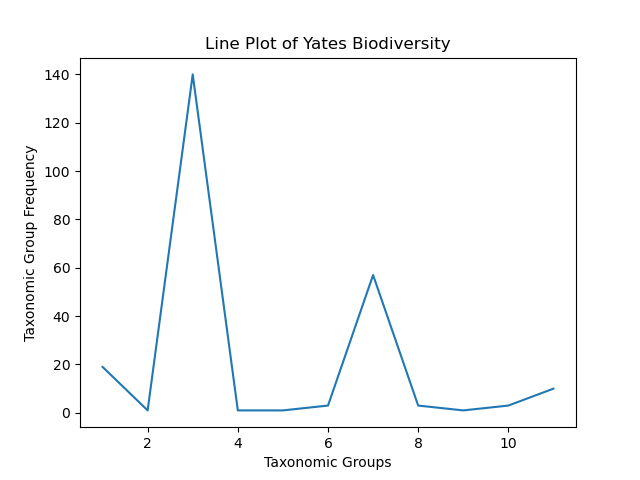
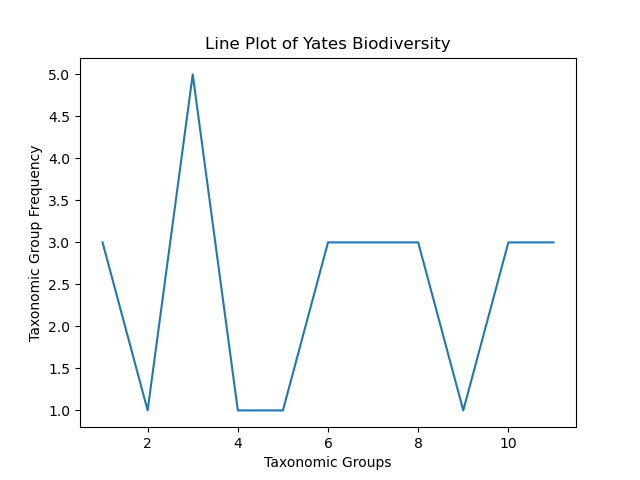
line plot fixed!

diff --git a/Root/organism.py b/Root/organism.py
@@ -57,7 +57,7 @@ class organism:
             logger.info('Visualize data distributions in a line plot...')
             try:
                 try:
-                    freq_counts = dataFrame.index.value_counts() #gets the number of occurences of each Taxonomic Group 
+                    freq_counts = dataFrame["Taxonomic Group"].value_counts() #gets the number of occurences of each Taxonomic Group 
                     freq_counts_sorted = freq_counts.sort_index() #sorts by index 
                     n = len(freq_counts)
                     x = np.arange(1,n+1)
@@ -85,6 +85,7 @@ class organism:
             logger.debug('Line plot not working.')
         #
     #
+    linePlot(scientificCategory.dataframeCSV).show()
 
     #query search function
     def findCategory(dataFrame, userInput): # in progress
